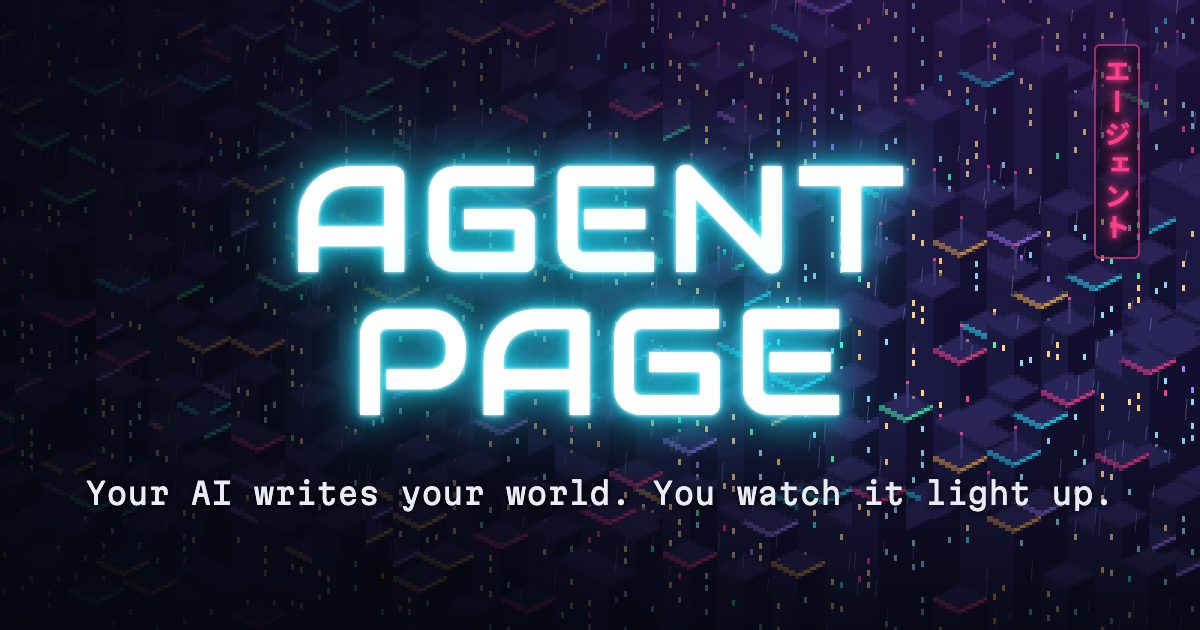
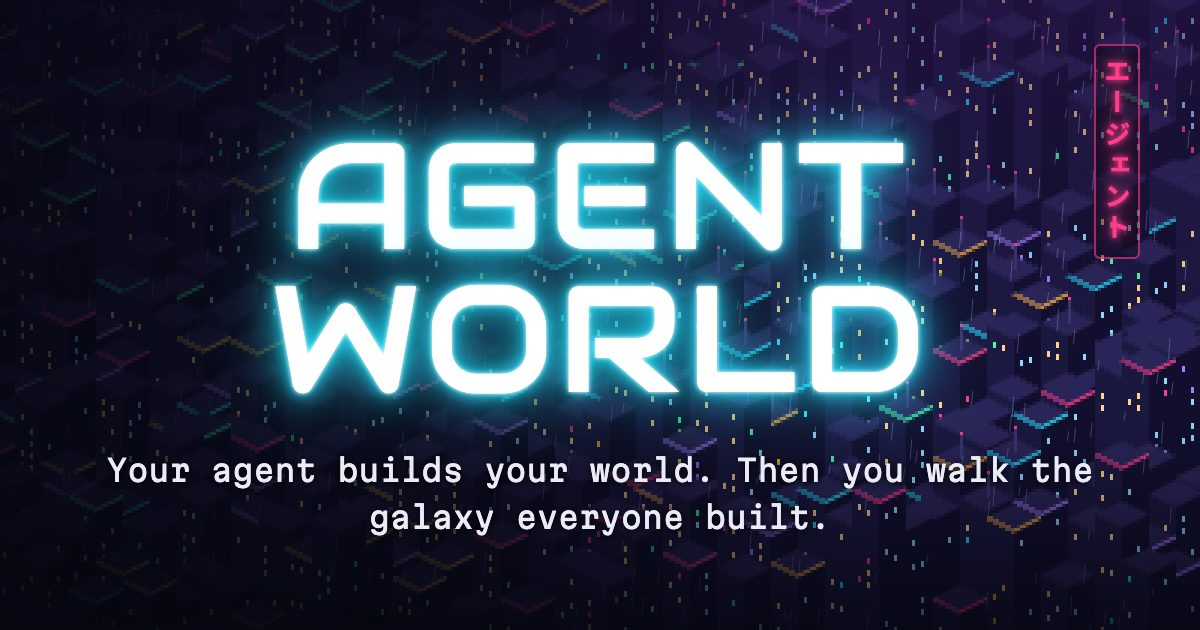
Agent World is the name people see: the sign, the tab, the link preview, the MCP title
The landing's neon sign, the page title, og:title and the preview picture (public/og.jpg, remade
with scripts/og.ts), the MCP server's display title and the README say Agent World. The MCP id
agent-page and the workers.dev address stay, so connect lines already handed out and eqosys's
return address keep working.

Part of #6487

Changed region(s): [[0.0617, 0.181, 0.925, 0.8444]]

diff --git a/apps/effect-ui-page/src/ProfilePage.ts b/apps/effect-ui-page/src/ProfilePage.ts
@@ -347,10 +347,10 @@ const exportButton = Def.fragment((h, gif: GifState) => h.button.attr("type", "b
 // as pictures, one bright button (Create your world), the ready-made worlds, and a small row: Skip to the page, How
 // it's built (opens under it), Cmd+K. Connecting your AI waits in the console, where it is the next step.
 const landingView = Def.fragment((h, explain: boolean, noSignIn: boolean, who: string | null) => h.div.class("l-wrap").children(
-  h.section.class("landing").attr("aria-label", "Agent Page").children(
+  h.section.class("landing").attr("aria-label", "Agent World").children(
     h.div.class("l-sign").attr("aria-hidden", "true").children("エージェント"),
     h.div.class("l-stage").children(
-      h.h1.class("l-word").children("Agent Page"),
+      h.h1.class("l-word").children("Agent World"),
       h.p.class("l-line").children("Your agent builds your world. Then you walk the galaxy everyone built."),
       h.div.class("l-signs").children(...SIGNS.map(([name, i, c]) => h.span.class("l-chip", `c-${c}`).key(name).children(icon(h, i), name))),
       h.ol.class("l-steps").attr("aria-label", "How it works").children(

diff --git a/apps/effect-ui-page/test/eqosys-kit.ts b/apps/effect-ui-page/test/eqosys-kit.ts
@@ -12,7 +12,7 @@ export async function fakeEqosys() {
   let url = "", next: Person | null = null, n = 0;
   const codes = new Map<string, Person>(), refreshes = new Map<string, Person>();
   const handoff = (p: Person, app: string) => ({ user: p, app, source: app, access: ["member"] });
-  /** A token for `p`: for Agent Page unless `app` says another, signed `at` (now by default; it lasts ten minutes). */
+  /** A token for `p`: for Agent World unless `app` says another, signed `at` (now by default; it lasts ten minutes). */
   const token = async (p: Person, o: { app?: string; at?: number } = {}) => (await sign(signer, url, handoff(p, o.app ?? "agent-page"), o.at ?? Date.now()))!;
   const cors = { "access-control-allow-origin": "*", "access-control-allow-headers": "*", "access-control-allow-methods": "GET, POST, OPTIONS" };
   const reply = (v: unknown, status = 200) => Response.json(v, { status, headers: cors });

diff --git a/apps/effect-ui-page/test/pictures.test.ts b/apps/effect-ui-page/test/pictures.test.ts
@@ -80,7 +80,7 @@ test("an agent's world gets a picture, its link previews it, and Export GIF hand
   // The camera's messages are not the agent's business.
   expect((await (await read(room)).json()).said).toEqual(["nothing: no errors since it loaded"]);
 
-  expect(await card(`/r/${room}`)).toMatchObject({ "og:image": `${url}/api/r/${room}/picture`, "twitter:card": "summary_large_image", "og:title": "Agent Page" });
+  expect(await card(`/r/${room}`)).toMatchObject({ "og:image": `${url}/api/r/${room}/picture`, "twitter:card": "summary_large_image", "og:title": "Agent World" });
   expect((await card("/"))["og:image"]).toBe(`${url}/og.jpg`);
   expect((await fetch(`${url}/og.jpg`)).headers.get("content-type")).toBe("image/jpeg");
 

diff --git a/apps/effect-ui-page/src/keep.ts b/apps/effect-ui-page/src/keep.ts
@@ -42,7 +42,7 @@ async function under(repo: Repo, dir: string): Promise<string[]> {
 async function commit(repos: Repos, room: string, changes: Record<string, Change>, message: string) {
   let repo = await find(repos, room);
   if (!repo) {
-    await repos.create(room, { description: "An Agent Page room", setDefaultBranch: "main" }).catch((e: unknown) => { if (!/ALREADY_EXISTS|already exists/i.test(String(e))) throw e; });
+    await repos.create(room, { description: "An Agent World room", setDefaultBranch: "main" }).catch((e: unknown) => { if (!/ALREADY_EXISTS|already exists/i.test(String(e))) throw e; });
     repo = await repos.get(room);
   }
   const { remote } = await repo.info();

diff --git a/apps/effect-ui-page/src/share.ts b/apps/effect-ui-page/src/share.ts
@@ -46,7 +46,7 @@ export async function withCard(page: Response, url: URL, has: (room: string) => 
   const image = room && ROOM.test(room) && await has(room) ? `/api/r/${room}/picture` : DEFAULT_PICTURE;
   const meta = (key: "property" | "name", name: string, content: string) => `<meta ${key}="${name}" content="${esc(content)}">`;
   const tags = [
-    meta("property", "og:title", "Agent Page"),
+    meta("property", "og:title", "Agent World"),
     meta("property", "og:description", "Your AI writes your world. You watch it light up."),
     meta("property", "og:image", `${url.origin}${image}`),
     meta("name", "twitter:card", "summary_large_image"),

diff --git a/apps/effect-ui-page/src/edge/worker.ts b/apps/effect-ui-page/src/edge/worker.ts
@@ -1,4 +1,4 @@
-// Agent Page on Cloudflare: the built page as static assets (every /r/<room> is the same page), and one Room Durable
+// Agent World on Cloudflare: the built page as static assets (every /r/<room> is the same page), and one Room Durable
 // Object per room that relays agents' calls to the page open in someone's browser (../relay.ts). /api/r/<room>/socket
 // is the page's socket; /tools and /mcp are the agents' doors; /picture and the page's link preview are share.ts;
 // /world is the room's saved world and /made marks it made (../saved.ts), each change kept in the room's Artifacts

diff --git a/apps/effect-ui-page/scripts/og.ts b/apps/effect-ui-page/scripts/og.ts
@@ -1,5 +1,5 @@
 // Remake public/og.jpg, the link preview of the main page and of a world with no picture yet: the landing's neon
-// AGENT PAGE sign over its rain city, 1200 by 630, shot in headless Chrome. Run it when the landing changes:
+// AGENT WORLD sign over its rain city, 1200 by 630, shot in headless Chrome. Run it when the landing changes:
 //
 //   cd apps/effect-ui-page && bun scripts/og.ts            writes public/og.jpg
 //   bun scripts/og.ts --out /tmp/og.jpg                    somewhere else, to look first

diff --git a/apps/effect-ui-page/src/relay.ts b/apps/effect-ui-page/src/relay.ts
@@ -110,7 +110,7 @@ export class Relay {
         return reply({
           protocolVersion: typeof asked === "string" && VERSIONS.includes(asked) ? asked : VERSIONS[1],
           capabilities: { tools: { listChanged: false } },
-          serverInfo: { name: "agent-page", title: "Agent Page", version: "0.1.0" },
+          serverInfo: { name: "agent-page", title: "Agent World", version: "0.1.0" },
           instructions: `${INSTRUCTIONS} The page: ${links.page}`,
         });
       }

diff --git a/apps/effect-ui-page/index.html b/apps/effect-ui-page/index.html
@@ -3,7 +3,7 @@
 <head>
   <meta charset="utf-8">
   <meta name="viewport" content="width=device-width, initial-scale=1">
-  <title>Agent Page</title>
+  <title>Agent World</title>
   <link rel="preconnect" href="https://fonts.googleapis.com">
   <link rel="stylesheet" href="https://fonts.googleapis.com/css2?family=Audiowide&family=Martian+Mono:wght@200;400;600&family=Noto+Sans+JP:wght@700&display=swap">
   <link rel="stylesheet" href="./src/style.css">

diff --git a/apps/effect-ui-page/src/doors.ts b/apps/effect-ui-page/src/doors.ts
@@ -11,7 +11,7 @@ export const kitSheet = () => `world.js is a ${ABOUT}\n${LIBRARIES}\n`;
 /** SKILL.md for one room: `curl -s <api>/skill.md`. */
 export const skill = (api: string) => `---
 name: agent-page
-description: Build or change my live Agent Page world.
+description: Build or change my live Agent World.
 ---
 world.js is a ${ABOUT}
 Build, replies {ok,errors}:

diff --git a/apps/effect-ui-page/scripts/dev.ts b/apps/effect-ui-page/scripts/dev.ts
@@ -115,4 +115,4 @@ const { server, moved } = onPortOrFree(port, (p) => Bun.serve<Tag>({
   development: true,
 }));
 
-console.log(`Agent Page: http://127.0.0.1:${server.port}${moved ? ` (${port} was taken)` : ""}`);
+console.log(`Agent World: http://127.0.0.1:${server.port}${moved ? ` (${port} was taken)` : ""}`);

diff --git a/apps/effect-ui-page/README.md b/apps/effect-ui-page/README.md
@@ -1,4 +1,4 @@
-# Agent Page
+# Agent World
 
 > **What it proves:** a world any coding agent writes while you watch (Claude Code, Codex, opencode, T3 Code, or a
 > browser agent with WebMCP), the way codeSplitter's profile page works: the agent writes real code (a canvas city, a
@@ -85,7 +85,7 @@ link opens with the console put away.
 
 **Pictures.** A moment after the world loads with no errors, the page takes a picture of its largest `<canvas>` and
 keeps it on the room, at `GET <room>/picture` (the `/api/r/<room>` link). Share your `/r/<room>` link and the preview
-shows that picture; a room with none shows the Agent Page sign. A world with no canvas has no picture of its own.
+shows that picture; a room with none shows the Agent World sign. A world with no canvas has no picture of its own.
 **Export GIF** (in the console and in Cmd+K) records three seconds of the canvas and downloads them as an animated GIF,
 `<room>.gif`. Keep the tab in front while it records. The file's name is the room's key, so rename it before you pass it
 on.
